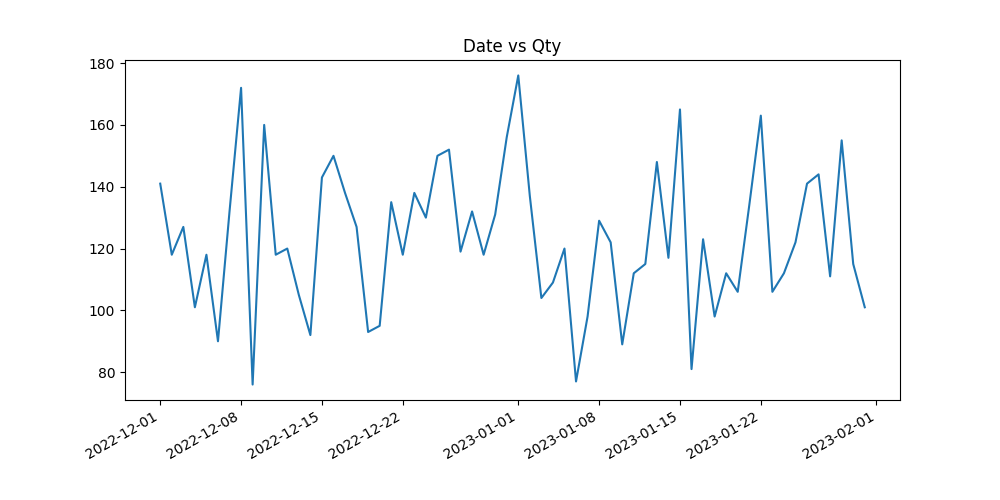
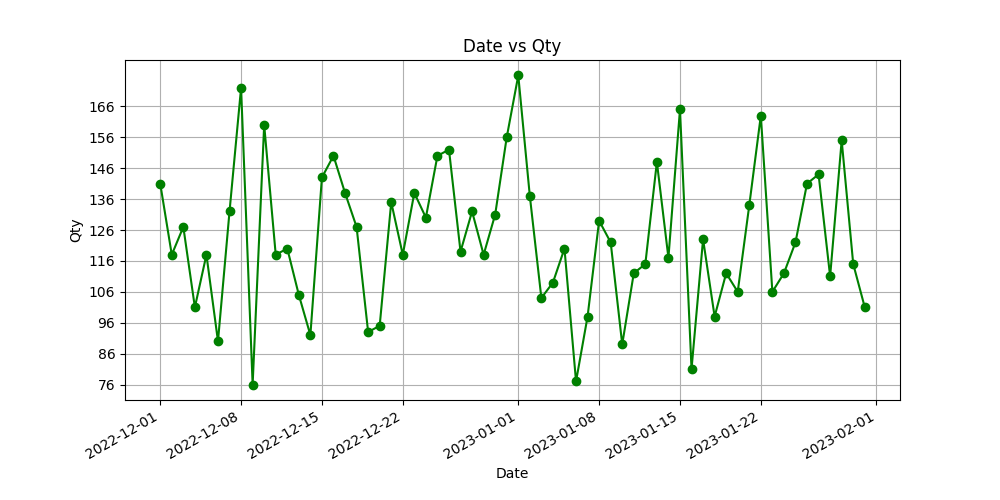
Daily analyisi is working

diff --git a/src/templates/analysis-data.html b/src/templates/analysis-data.html
@@ -2,12 +2,94 @@
 <html lang="en">
 <head>
     <meta charset="UTF-8">
-    <title>Title</title>
+    <title>Daily analysis</title>
 </head>
 <body>
-<img src={{ filename[0] }} width="2000" height="600">
-<img src={{ filename[1] }} width="2000" height="600">
+<h1> Daily Analysis</h1>
+<u><h4>1. Daily analysis of {{ title[0] }}</h4></u>
+<p>Graph</p>
+<img src={{ filename[0] }} width="2000" height="800">
+<p>Table</p>
+<table border="1px dotted black">
+    <tr>
+        <th>S.No</th>
+        <th>Item</th>
+        <th>Price</th>
+    </tr>
+    {% for item in ItemPriceData %}
+        <tr>
+            <th>{{ loop.index }}</th>
+            <th>{{ item[0] }}</th>
+            <th>{{ item[1] }}</th>
+        </tr>
+    {% endfor %}
+</table>
+<br>
+<hr>
+<br>
+
+<u><h4>2. Daily analysis of {{ title[1] }}</h4></u>
+<p>Graph</p>
+<img src={{ filename[1] }} width="2000" height="800">
+<p>Table</p>
+<table border="1px dotted black">
+    <tr>
+        <th>S.No</th>
+        <th>Item</th>
+        <th>Qty</th>
+    </tr>
+    {% for item in ItemQty %}
+        <tr>
+            <th>{{ loop.index }}</th>
+            <th>{{ item[0] }}</th>
+            <th>{{ item[1] }}</th>
+        </tr>
+    {% endfor %}
+</table>
+<br>
+<hr>
+<br>
+
+<u><h4>3. Daily analysis of {{ title[2] }}</h4></u>
+<p>Graph</p>
 <img src={{ filename[2] }}>
+<p>Table</p>
+<table border="1px dotted black">
+    <tr>
+        <th>S.No</th>
+        <th>Date</th>
+        <th>Price</th>
+    </tr>
+    {% for item in DatePrice %}
+        <tr>
+            <th>{{ loop.index }}</th>
+            <th>{{ item[0] }}</th>
+            <th>{{ item[1] }}</th>
+        </tr>
+    {% endfor %}
+</table>
+<br>
+<hr>
+<br>
+
+<u><h4>4. Daily analysis of {{ title[3] }}</h4></u>
+<p>Graph</p>
 <img src={{ filename[3] }}>
+<p>Table</p>
+<table border="1px dotted black">
+    <tr>
+        <th>S.No</th>
+        <th>Date</th>
+        <th>Qty.</th>
+    </tr>
+    {% for item in DateQty %}
+        <tr>
+            <th>{{ loop.index }}</th>
+            <th>{{ item[0] }}</th>
+            <th>{{ item[1] }}</th>
+        </tr>
+    {% endfor %}
+</table>
+
 </body>
 </html>

diff --git a/src/main.py b/src/main.py
@@ -1,5 +1,6 @@
 import os
 from datetime import datetime
+from sqlalchemy import extract
 
 import matplotlib.dates as mdates
 import matplotlib.pyplot as plt
@@ -130,19 +131,40 @@ def dailyAnalysis():
     ax.xaxis.set_major_locator(mdates.AutoDateLocator())
     fnameDateQty = plotDateGraph(dates, qty, "Date vs Qty")
 
-    items, price, qty = [], [], []
+    dateQty = []
+    datePrice = []
+    for oneData in range(len(dates)):
+        dateQty.append([str(dates[oneData]).split(" ")[0], qty[oneData]])
+        datePrice.append([str(dates[oneData]).split(" ")[0], "Rs. " + str(price[oneData])])
+
+    Dprice, Dqty = {}, {}
     for oneData in range(len(grouped_ordersItemQty)):
-        items.append(grouped_ordersItemQty[oneData][0])
-        qty.append(grouped_ordersItemQty[oneData][1])
+        Dqty[grouped_ordersItemQty[oneData][0]] = grouped_ordersItemQty[oneData][1]
 
     for oneData in range(len(grouped_ordersItemPrice)):
-        price.append(grouped_ordersItemPrice[oneData][1])
+        Dprice[grouped_ordersItemQty[oneData][0]] = grouped_ordersItemPrice[oneData][1]
 
-    fnameItemPrice = plotItemGraph(items, price, "Item vs Price")
-    fnameItemQty = plotItemGraph(items, qty, "Item vs Qty")
+    Dqty = dict(sorted(Dqty.items(), key=lambda x: x[1], reverse=True))
+    Dprice = dict(sorted(Dprice.items(), key=lambda x: x[1], reverse=True))
+
+    fnameItemPrice = plotItemGraph(Dprice.keys(), Dprice.values(), "Item vs Price")
+    fnameItemQty = plotItemGraph(Dqty.keys(), Dqty.values(), "Item vs Qty")
 
     filename = [fnameItemPrice, fnameItemQty, fnameDatePrice, fnameDateQty]
-    return make_response(render_template('analysis-data.html', filename=filename), 200)
+    title = ["Item vs Price", "Item vs Qty", "Date vs Price", "Date vs Qty"]
+
+    itemPrice = []
+    itemQty = []
+
+    for oneData in Dprice.keys():
+        itemPrice.append([oneData, "Rs. " + str(Dprice[oneData])])
+
+    for oneData in Dqty.keys():
+        itemQty.append([oneData, Dqty[oneData]])
+
+    return make_response(
+        render_template('analysis-data.html', filename=filename, title=title, DatePrice=datePrice, DateQty=dateQty,
+                        ItemPriceData=itemPrice, ItemQty=itemQty), 200)
 
 
 @app.route("/monthly-analysis")
@@ -154,14 +176,15 @@ def monthlyAnalysis():
 @app.route("/weekly-analysis")
 @login_required
 def weeklyAnalysis():
-    return make_response(render_template('analysis.html'), 200)
+    grouped_orders = db.session.query(extract('dow', Orders.date), db.func.sum(Orders.qty)).group_by(extract('dow', Orders.date)).all()
+    print(grouped_orders)
+    return str(grouped_orders)
 
 
 def fetchOrderData(form):
     foodMenu = fetchMenu()
     orderData = []
     Sno = 1
-    # print(form)
     for item in form:
         if form[item] != "0":
             index = int(item.split("_")[1])
@@ -184,10 +207,25 @@ def fetchMenu():
 
 
 def plotItemGraph(X, Y, title):
-    plt.figure(figsize=(40, 15))
-    plt.plot(X, Y)
+    plt.figure(figsize=(40, 20))
+    plt.plot(X, Y, marker='o', color="red")
+    ytick = range(int(min(Y)), int(max(Y)), 60)
+
+    label = title.split(" vs ")
+    xlabel = label[0]
+    ylabel = label[1]
+
+    if 'Price' in title:
+        ytick = range(int(min(Y)), int(max(Y)), 300)
+        ylabel += " (Rs.)"
+
+    plt.xlabel(xlabel)
+    plt.ylabel(ylabel)
+
+    plt.yticks(ytick)
     plt.title(title)
     plt.xticks(rotation=45, ha='right')
+    plt.grid(True)
     filename = f"{title}-{str(datetime.now().strftime('%B %d, %Y'))}".replace(" ", "")
     plt.savefig(f"./static/graphs/{filename}.png")
     return f"./static/graphs/{filename}.png"
@@ -195,8 +233,24 @@ def plotItemGraph(X, Y, title):
 
 def plotDateGraph(X, Y, title):
     plt.figure(figsize=(10, 5))
-    plt.plot(X, Y)
+    plt.plot(X, Y, marker='o', color="green")
+
+    label = title.split(" vs ")
+    xlabel = label[0]
+    ylabel = label[1]
+
+    if 'Price' in title:
+        ytick = range(int(min(Y)), int(max(Y)), 250)
+        ylabel += " (Rs.)"
+    else:
+        ytick = range(int(min(Y)), int(max(Y)), 10)
+
+    plt.xlabel(xlabel)
+    plt.ylabel(ylabel)
+
+    plt.yticks(ytick)
     plt.title(title)
+    plt.grid(True)
     plt.gcf().autofmt_xdate()
     filename = f"{title}-{str(datetime.now().strftime('%B %d, %Y'))}".replace(" ", "")
     plt.savefig(f"./static/graphs/{filename}.png")
